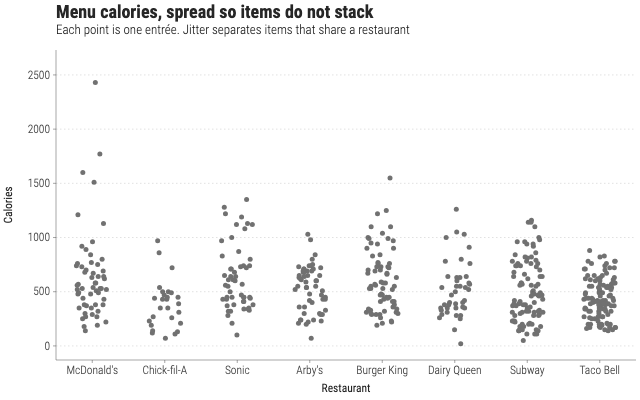
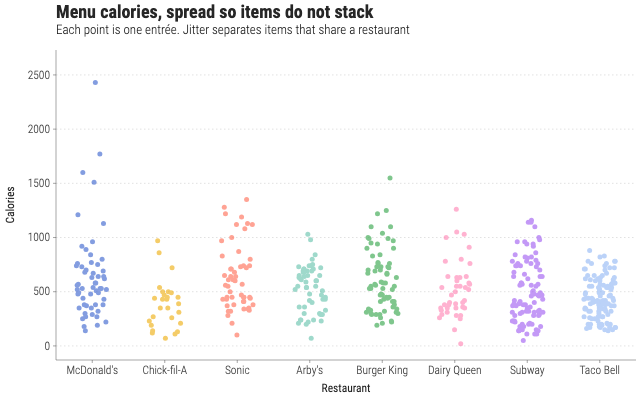
fix(examples): color the greyscale menu-calorie jitter charts
Map restaurant to observable10 on jitter/basic and point/jitter so the
gallery charts are not flat greyscale. Hide the redundant color legend
because the x axis already names each chain, and restamp the light
previews plus provenance digests.

diff --git a/examples/manifest.ts b/examples/manifest.ts
@@ -521,7 +521,7 @@ export const EXAMPLES: readonly ExampleManifestEntry[] = [
     name: "basic",
     title: "Menu calories, spread so items do not stack",
     description: "Jittered entrée calories by restaurant. Use this when many points share a category and would otherwise cover each other.",
-    tags: ["jitter", "scatter", "categorical", "overplotting"],
+    tags: ["jitter", "scatter", "categorical", "overplotting", "color"],
     docsSection: "Points & scatter",
     hasData: true,
   },
@@ -707,7 +707,7 @@ export const EXAMPLES: readonly ExampleManifestEntry[] = [
     name: "jitter",
     title: "Calories by restaurant, with jitter",
     description: "Fast-food menu calories by restaurant. Position jitter spreads marks that would otherwise stack on the same category.",
-    tags: ["point", "jitter", "position", "scatter", "categorical"],
+    tags: ["point", "jitter", "position", "scatter", "categorical", "color"],
     docsSection: "Points & scatter",
     hasData: true,
   },

diff --git a/examples/point/jitter/Example.svelte b/examples/point/jitter/Example.svelte
@@ -2,8 +2,10 @@
   import {
     GeomPoint,
     GGPlot,
+    GuideNone,
     Inspect,
     Labs,
+    ScaleColorDiscrete,
     ThemeClean,
   } from "@ggsvelte/svelte";
 
@@ -12,7 +14,7 @@
 
 <GGPlot
   data={fastfoodMenu}
-  aes={{ x: "restaurant", y: "calories" }}
+  aes={{ x: "restaurant", y: "calories", color: "restaurant" }}
   width={640}
   height={400}
 >
@@ -21,7 +23,9 @@
     positionParams={{ width: 0.22, height: 0 }}
     alpha={0.65}
   />
+  <ScaleColorDiscrete scheme="observable10" />
   <ThemeClean />
+  <GuideNone channel="color" />
   <Labs
     title="Calories by restaurant, with jitter"
     subtitle="Horizontal jitter spreads marks that share a restaurant"

diff --git a/examples/jitter/basic/Example.svelte b/examples/jitter/basic/Example.svelte
@@ -2,8 +2,10 @@
   import {
     GeomJitter,
     GGPlot,
+    GuideNone,
     Inspect,
     Labs,
+    ScaleColorDiscrete,
     ThemeClean,
   } from "@ggsvelte/svelte";
 
@@ -12,12 +14,14 @@
 
 <GGPlot
   data={fastfoodMenu}
-  aes={{ x: "restaurant", y: "calories" }}
+  aes={{ x: "restaurant", y: "calories", color: "restaurant" }}
   width={640}
   height={400}
 >
   <GeomJitter width={0.22} height={0} alpha={0.65} />
+  <ScaleColorDiscrete scheme="observable10" />
   <ThemeClean />
+  <GuideNone channel="color" />
   <Labs
     title="Menu calories, spread so items do not stack"
     subtitle="Each point is one entrée. Jitter separates items that share a restaurant"

diff --git a/examples/point/jitter/spec.ts b/examples/point/jitter/spec.ts
@@ -1,11 +1,13 @@
-import { aes, gg } from "@ggsvelte/spec";
+import { aes, gg, guideNone } from "@ggsvelte/spec";
 
 import { defineExample } from "../../define.js";
 import { fastfoodMenu } from "./data.js";
 
 export default defineExample(
-  gg(fastfoodMenu, aes({ x: "restaurant", y: "calories" }))
+  gg(fastfoodMenu, aes({ x: "restaurant", y: "calories", color: "restaurant" }))
     .geomPoint({ position: "jitter", positionParams: { width: 0.22, height: 0 }, alpha: 0.65 })
+    .scales({ color: { type: "ordinal", scheme: "observable10" } })
+    .guides({ color: guideNone() })
     .theme("clean")
     .labs({
       title: "Calories by restaurant, with jitter",

diff --git a/examples/jitter/basic/spec.ts b/examples/jitter/basic/spec.ts
@@ -1,11 +1,13 @@
-import { aes, gg } from "@ggsvelte/spec";
+import { aes, gg, guideNone } from "@ggsvelte/spec";
 
 import { defineExample } from "../../define.js";
 import { fastfoodMenu } from "./data.js";
 
 export default defineExample(
-  gg(fastfoodMenu, aes({ x: "restaurant", y: "calories" }))
+  gg(fastfoodMenu, aes({ x: "restaurant", y: "calories", color: "restaurant" }))
     .geomJitter({ width: 0.22, height: 0, alpha: 0.65 })
+    .scales({ color: { type: "ordinal", scheme: "observable10" } })
+    .guides({ color: guideNone() })
     .theme("clean")
     .labs({
       title: "Menu calories, spread so items do not stack",
